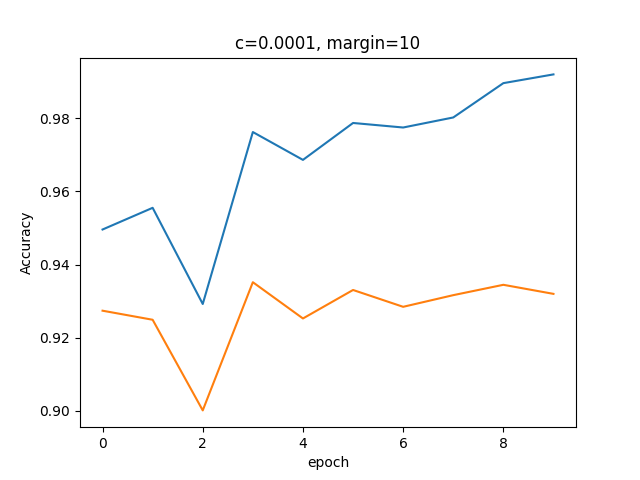
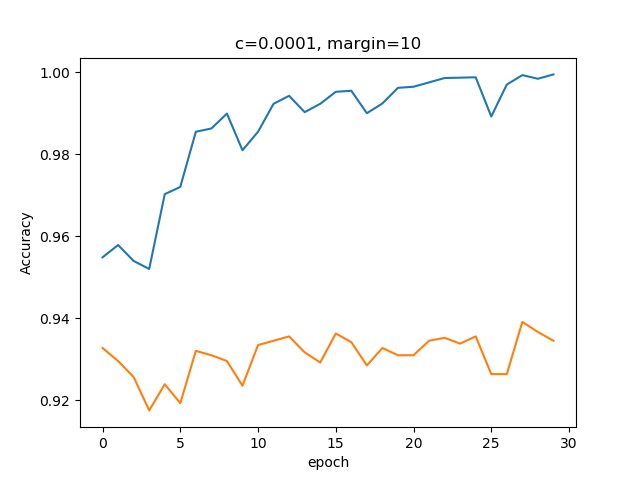
fixed tutorial06

diff --git a/hiroto/tutorial06/classSVM.py b/hiroto/tutorial06/classSVM.py
@@ -1,4 +1,4 @@
-# python SVM.py ../data/titles-en-train.labeled ../data/titles-en-train.word ../data/titles-en-test.word
+# python classSVM.py ../data/titles-en-train.labeled ../data/titles-en-train.word ../data/titles-en-test.word
 from collections import defaultdict
 import sys
 import pickle
@@ -13,6 +13,7 @@ class SVM():
         self.train_fname = train_fname
         self.test1_fname = test1_fname
         self.test2_fname = test2_fname
+        self.flag = True
         with open(train_fname) as train_f, \
              open(test1_fname) as test1_f, \
              open(test2_fname) as test2_f:
@@ -20,6 +21,12 @@ class SVM():
             self.test1_text = test1_f.readlines()
             self.test2_text = test2_f.readlines()
     
+    def train_mode(self):
+        self.flag = True
+    
+    def eval_mode(self):
+        self.flag = False
+
     def train(self, margin, c, max_iter=20):
         self.c = c
         self.max_iter = max_iter
@@ -29,19 +36,22 @@ class SVM():
         self.itr = 0
         for _ in tqdm(range(max_iter)):
             for line in self.train_text:
+                self.train_mode()
                 label, sent = line.split('\t')
                 y = int(label)
                 #一文中で出現した各単語の頻度をまとめた辞書(key:name, value:freqency)
                 phi = self.create_features(sent)
-                val = self.cal_val(phi, y)
+                #val = self.cal_val(phi, y)
                 #ラベルを予測
                 label_pred = self.predict_one(phi)
+                val = self.cal_val(phi, y)
                 #print(type(self.weights))
                 #マージンに入っているか
                 if val <= margin:
                     self.itr += 1
                     self.update_weights(phi, y)
                     #print(type(self.weights))
+            self.eval_mode()
             self.accs1.append(self.predict_all(self.test1_fname))
             self.accs2.append(self.predict_all(self.test2_fname))
     
@@ -58,7 +68,7 @@ class SVM():
         score = 0
         for name, value in phi.items():
             weight = self.getw(name)
-            score += value * self.weights[name]
+            score += value * weight
         return np.sign(score)
     
     def cal_val(self, phi, y):
@@ -73,13 +83,14 @@ class SVM():
             self.weights[name] += value * y
     
     def getw(self, name):
-        if self.itr != self.last[name]:
-            c_size = self.c * (self.itr - self.last[name])
-            if abs(self.weights[name]) <= c_size:
-                self.weights[name] = 0
-            else:
-                self.weights[name] -= np.sign(self.weights[name]) * c_size
-            self.last[name] = self.itr
+        if self.flag == True:
+            if self.itr != self.last[name]:
+                c_size = self.c * (self.itr - self.last[name])
+                if abs(self.weights[name]) <= c_size:
+                    self.weights[name] = 0
+                else:
+                    self.weights[name] -= np.sign(self.weights[name]) * c_size
+                self.last[name] = self.itr
         return self.weights[name]
     
     def predict_all(self, input_fname):
@@ -103,7 +114,7 @@ class SVM():
         plt.plot(list(range(self.max_iter)), self.accs1)
         plt.plot(list(range(self.max_iter)), self.accs2)
         plt.title(f"c={c}, margin={margin}")
-        plt.savefig(f"./picture/c{c}_margin{margin}.png")
+        plt.savefig(f"./picture_sub/c{c}_margin{margin}.png")
         plt.clf()
 
     def param_search(self, margins, cs, max_iter=20):
@@ -113,7 +124,7 @@ class SVM():
                 print(f"c : {c}, margin : {margin}")
                 print(f"train acc : {self.accs1[-1]}")
                 print(f"test acc : {self.accs2[-1]}")
-                self.draw(margin, c)
+                #self.draw(margin, c)
     
 def main():
     train_fname = sys.argv[1]
@@ -122,58 +133,73 @@ def main():
     svm = SVM(train_fname, test1_fname, test2_fname)
     margin_params = [0.1, 1.0, 10]
     c_params = [1.0, 0.1, 0.01, 0.001, 0.0001]
-    svm.param_search(margins=margin_params, cs=c_params, max_iter=10)
+    svm.param_search(margins=margin_params, cs=c_params, max_iter=30)
 
 
 if __name__ == '__main__':
     main()
 
 '''
+100%|███████████████████████████████████████████████████████████████████████████████| 30/30 [00:34<00:00,  1.15s/it]
 c : 1.0, margin : 0.1
-train acc : 0.3779234585400425
-test acc : 0.3705278072972016
+train acc : 0.6371367824238129
+test acc : 0.5894438540559688
+100%|███████████████████████████████████████████████████████████████████████████████| 30/30 [00:45<00:00,  1.50s/it]
 c : 0.1, margin : 0.1
-train acc : 0.6253543586109143
-test acc : 0.624512929507616
+train acc : 0.630846917080085
+test acc : 0.6255756287637265
+100%|███████████████████████████████████████████████████████████████████████████████| 30/30 [00:48<00:00,  1.61s/it]
 c : 0.01, margin : 0.1
-train acc : 0.8683557760453579
-test acc : 0.8650371944739639
+train acc : 0.7144755492558469
+test acc : 0.7077577045696068
+100%|███████████████████████████████████████████████████████████████████████████████| 30/30 [00:47<00:00,  1.57s/it]
 c : 0.001, margin : 0.1
-train acc : 0.9558823529411765
-test acc : 0.9192348565356004
+train acc : 0.9238128986534373
+test acc : 0.8901877435352462
+100%|███████████████████████████████████████████████████████████████████████████████| 30/30 [00:43<00:00,  1.43s/it]
 c : 0.0001, margin : 0.1
-train acc : 0.9865343727852587
-test acc : 0.9298618490967057
+train acc : 0.9988483345145287
+test acc : 0.9323414806942969
+100%|███████████████████████████████████████████████████████████████████████████████| 30/30 [00:34<00:00,  1.16s/it]
 c : 1.0, margin : 1.0
-train acc : 0.4591601700921332
-test acc : 0.44668792065178886
+train acc : 0.655474840538625
+test acc : 0.6007793127878144
+100%|███████████████████████████████████████████████████████████████████████████████| 30/30 [00:47<00:00,  1.58s/it]
 c : 0.1, margin : 1.0
-train acc : 0.6443125442948263
-test acc : 0.6376195536663124
+train acc : 0.6424521615875266
+test acc : 0.6372653205809422
+100%|███████████████████████████████████████████████████████████████████████████████| 30/30 [00:46<00:00,  1.56s/it]
 c : 0.01, margin : 1.0
-train acc : 0.7777285613040397
-test acc : 0.7718738930216082
+train acc : 0.8804039688164422
+test acc : 0.8660998937300743
+100%|███████████████████████████████████████████████████████████████████████████████| 30/30 [00:44<00:00,  1.47s/it]
 c : 0.001, margin : 1.0
-train acc : 0.9619064493267186
-test acc : 0.9241941197307828
+train acc : 0.97537207654146
+test acc : 0.9259652851576338
+100%|███████████████████████████████████████████████████████████████████████████████| 30/30 [00:43<00:00,  1.45s/it]
 c : 0.0001, margin : 1.0
-train acc : 0.9872430900070872
-test acc : 0.9312787814381863
+train acc : 0.9990255138199858
+test acc : 0.9355295784626284
+100%|███████████████████████████████████████████████████████████████████████████████| 30/30 [00:41<00:00,  1.38s/it]
 c : 1.0, margin : 10
-train acc : 0.27391920623671157
-test acc : 0.2685086787105916
+train acc : 0.53756201275691
+test acc : 0.5239107332624867
+100%|███████████████████████████████████████████████████████████████████████████████| 30/30 [00:45<00:00,  1.51s/it]
 c : 0.1, margin : 10
-train acc : 0.5530652019844082
-test acc : 0.5423308537017357
+train acc : 0.5833628632175761
+test acc : 0.5745660644704216
+100%|███████████████████████████████████████████████████████████████████████████████| 30/30 [00:44<00:00,  1.48s/it]
 c : 0.01, margin : 10
-train acc : 0.8486888731396173
-test acc : 0.8466170740347149
+train acc : 0.8586109142452162
+test acc : 0.8586609989373007
+100%|███████████████████████████████████████████████████████████████████████████████| 30/30 [00:46<00:00,  1.56s/it]
 c : 0.001, margin : 10
-train acc : 0.9594259390503189
-test acc : 0.9241941197307828
+train acc : 0.9687278525868178
+test acc : 0.9252568189868934
+100%|███████████████████████████████████████████████████████████████████████████████| 30/30 [00:44<00:00,  1.48s/it]
 c : 0.0001, margin : 10
-train acc : 0.9920269312544295
-test acc : 0.9319872476089267
+train acc : 0.9994684620836286
+test acc : 0.9344668792065179
 
 Perceptron:
 Accuracy = 92.702798%
